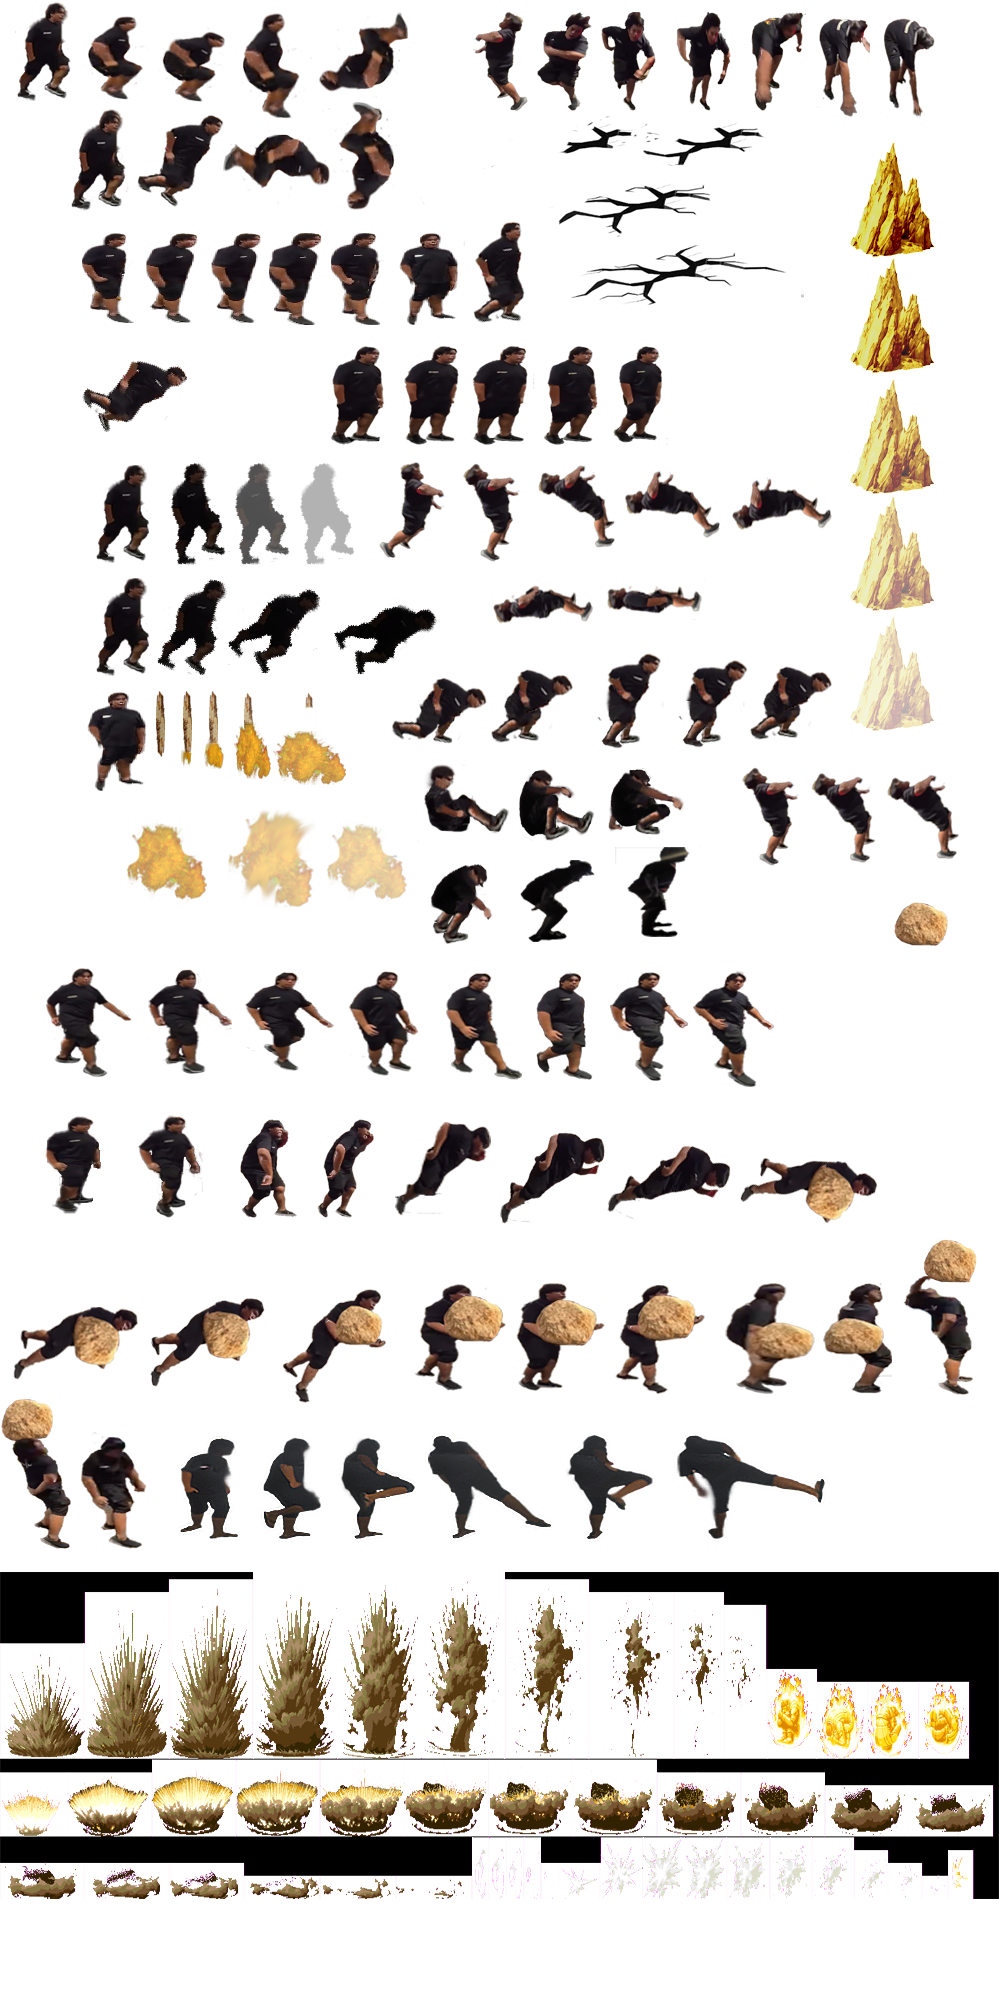
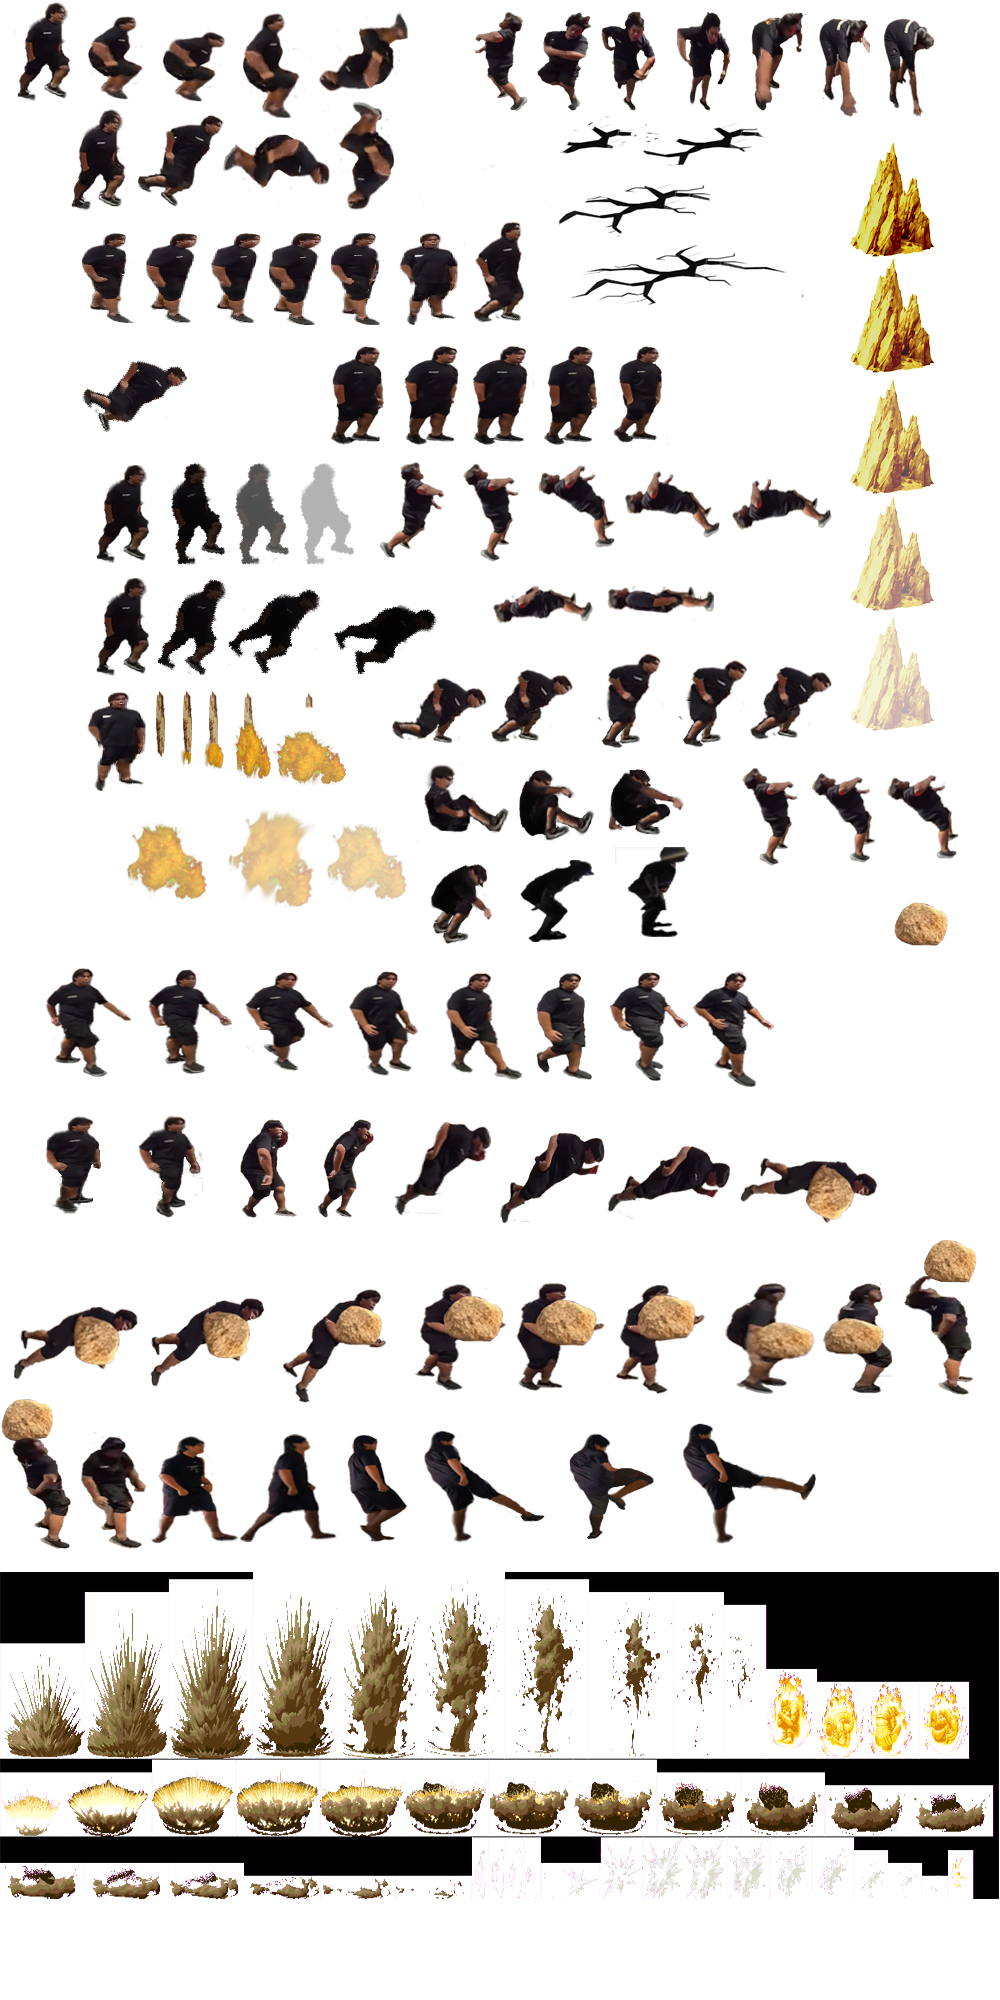
palette swap added december 11 2025

diff --git a/src/utils/palleteSwap.js b/src/utils/palleteSwap.js
@@ -16,6 +16,16 @@ export function extractPalette(image) {
     return [...set]; // palette array
 }
 
+export function buildSingleColorMap(sourceRGB, targetRGB) {
+    // sourceRGB = [r,g,b]
+    // targetRGB = [nr,ng,nb]
+    const key = `${sourceRGB[0]},${sourceRGB[1]},${sourceRGB[2]}`;
+    const map = new Map();
+    map.set(key, targetRGB);
+    return map;
+}
+
+
 export function buildPaletteMap(originalPalette, targetPalette) {
     const map = new Map();
     for (let i = 0; i < originalPalette.length; i++) {
@@ -26,6 +36,17 @@ export function buildPaletteMap(originalPalette, targetPalette) {
     }
     return map;
 }
+
+function isCloseColor(r, g, b, target, tolerance) {
+    return (
+        Math.abs(r - target[0]) <= tolerance &&
+        Math.abs(g - target[1]) <= tolerance &&
+        Math.abs(b - target[2]) <= tolerance
+    );
+}
+
+
+
 
 export function paletteSwap(image, colorMap, tolerance = 3) {
     const canvas = document.createElement("canvas");
@@ -41,18 +62,157 @@ export function paletteSwap(image, colorMap, tolerance = 3) {
         const a = pixels[i + 3];
         if (a === 0) continue;
 
-        const key = `${pixels[i]},${pixels[i+1]},${pixels[i+2]}`;
+        for (const [key, newColor] of colorMap.entries()) {
+            const [tr, tg, tb] = key.split(",").map(Number);
 
-        if (colorMap.has(key)) {
-            const [nr, ng, nb] = colorMap.get(key);
-            pixels[i]     = nr;
-            pixels[i + 1] = ng;
-            pixels[i + 2] = nb;
+            if (isCloseColor(pixels[i], pixels[i+1], pixels[i+2], [tr, tg, tb], tolerance)) {
+                pixels[i]     = newColor[0];
+                pixels[i + 1] = newColor[1];
+                pixels[i + 2] = newColor[2];
+            }
         }
     }
 
     ctx.putImageData(imgData, 0, 0);
     return canvas;
 }
+
+function isNearWhite(r, g, b, threshold = 200) {
+    return r >= threshold && g >= threshold && b >= threshold;
+}
+
+export function paletteSwapReplaceWhite(image, newColor) {
+    const canvas = document.createElement("canvas");
+    const ctx = canvas.getContext("2d");
+    canvas.width = image.width;
+    canvas.height = image.height;
+    ctx.drawImage(image, 0, 0);
+
+    const imgData = ctx.getImageData(0, 0, canvas.width, canvas.height);
+    const pixels = imgData.data;
+
+    for (let i = 0; i < pixels.length; i += 4) {
+        const r = pixels[i];
+        const g = pixels[i + 1];
+        const b = pixels[i + 2];
+        const a = pixels[i + 3];
+
+        if (a === 0) continue;
+
+        if (isNearWhite(r, g, b, 210)) {
+            pixels[i]     = newColor[0];
+            pixels[i + 1] = newColor[1];
+            pixels[i + 2] = newColor[2];
+        }
+    }
+
+    ctx.putImageData(imgData, 0, 0);
+    return canvas;
+}
+
+export function invertSprite(image) {
+    const canvas = document.createElement("canvas");
+    const ctx = canvas.getContext("2d");
+    canvas.width = image.width;
+    canvas.height = image.height;
+
+    ctx.drawImage(image, 0, 0);
+
+    const imgData = ctx.getImageData(0, 0, canvas.width, canvas.height);
+    const pixels = imgData.data;
+
+    for (let i = 0; i < pixels.length; i += 4) {
+        const a = pixels[i + 3];
+        if (a === 0) continue;
+
+        // invert colors
+        pixels[i]     = 255 - pixels[i];     // R
+        pixels[i + 1] = 255 - pixels[i + 1]; // G
+        pixels[i + 2] = 255 - pixels[i + 2]; // B
+    }
+
+    ctx.putImageData(imgData, 0, 0);
+    return canvas;
+}
+
+export function hueShiftSprite(image, hueShiftDegrees) {
+    const canvas = document.createElement("canvas");
+    const ctx = canvas.getContext("2d");
+    canvas.width = image.width;
+    canvas.height = image.height;
+
+    ctx.drawImage(image, 0, 0);
+
+    const imgData = ctx.getImageData(0, 0, canvas.width, canvas.height);
+    const pixels = imgData.data;
+
+    for (let i = 0; i < pixels.length; i += 4) {
+        const a = pixels[i + 3];
+        if (a === 0) continue;
+
+        let r = pixels[i] / 255;
+        let g = pixels[i + 1] / 255;
+        let b = pixels[i + 2] / 255;
+
+        // convert to HSL
+        const max = Math.max(r, g, b);
+        const min = Math.min(r, g, b);
+        const l = (max + min) / 2;
+
+        let h, s;
+
+        if (max === min) {
+            h = 0;
+            s = 0;
+        } else {
+            const d = max - min;
+            s = l > 0.5 ? d / (2 - max - min) : d / (max + min);
+
+            switch (max) {
+                case r: h = (g - b) / d + (g < b ? 6 : 0); break;
+                case g: h = (b - r) / d + 2; break;
+                case b: h = (r - g) / d + 4; break;
+            }
+
+            h /= 6;
+        }
+
+        // shift hue
+        h = (h + hueShiftDegrees / 360) % 1;
+
+        // convert back to RGB
+        function hue2rgb(p, q, t) {
+            if (t < 0) t += 1;
+            if (t > 1) t -= 1;
+            if (t < 1/6) return p + (q - p) * 6 * t;
+            if (t < 1/2) return q;
+            if (t < 2/3) return p + (q - p) * (2/3 - t) * 6;
+            return p;
+        }
+
+        let r2, g2, b2;
+
+        if (s === 0) {
+            r2 = g2 = b2 = l; // gray
+        } else {
+            const q = l < 0.5 ? l * (1 + s) : l + s - l * s;
+            const p = 2 * l - q;
+            r2 = hue2rgb(p, q, h + 1/3);
+            g2 = hue2rgb(p, q, h);
+            b2 = hue2rgb(p, q, h - 1/3);
+        }
+
+        pixels[i]     = Math.round(r2 * 255);
+        pixels[i + 1] = Math.round(g2 * 255);
+        pixels[i + 2] = Math.round(b2 * 255);
+    }
+
+    ctx.putImageData(imgData, 0, 0);
+    return canvas;
+}
+
+
+
+
 
 

diff --git a/src/entities/fighters/Golem.js b/src/entities/fighters/Golem.js
@@ -120,15 +120,15 @@ export class Golem extends Fighter {
             ['heavy-punch-1', [[[222, 133, 109, 55], [-8,77]], PushBox.BEND, [[3, -76, 30, 18],[3, -69, 84, 30], [-2, -52, 44, 58]], HitBox.HEAVY_PUNCH]],
 
              //lIGHT kick
-            ['light-kick-1', [[[264, 1438, 59, 101], [29,99]], PushBox.IDLE,  [[3, -76, 30, 18],[-3, -59, 64, 20], [-32, -52, 44, 58]]]],
-            ['light-kick-2', [[[431, 1435, 124, 104], [62,102]], PushBox.BEND, [[3, -76, 30, 18],[-3, -59, 64, 20], [-32, -52, 44, 58]], HitBox.LIGHT_KICK_LOW]],
+            ['light-kick-1', [[[239, 1434, 97, 108], [48,106]], PushBox.IDLE,  [[3, -76, 30, 18],[-3, -59, 64, 20], [-32, -52, 44, 58]]]],
+            ['light-kick-2', [[[423, 1429, 122, 118], [61,116]], PushBox.BEND, [[3, -76, 30, 18],[-3, -59, 64, 20], [-32, -52, 44, 58]], HitBox.LIGHT_KICK_LOW]],
 
              //Heavy kick
-            ['heavy-kick-1', [[[180, 1438, 59, 101], [29,99]], PushBox.BEND, [[3, -76, 30, 18],[-3, -59, 30, 20], [-32, -52, 44, 58]]]],
-            ['heavy-kick-2', [[[264, 1438, 59, 101], [29,99]], PushBox.BEND, [[3, -76, 30, 18],[-3, -59, 30, 20], [-32, -52, 44, 58]]]],
-            ['heavy-kick-3', [[[343, 1438, 75, 101], [37,99]], PushBox.BEND, [[3, -76, 30, 18],[8, -58, 75, 20], [-2, -52, 44, 58]]]],
+            ['heavy-kick-1', [[[151, 1436, 87, 108], [44,106]], PushBox.BEND, [[3, -76, 30, 18],[-3, -59, 30, 20], [-32, -52, 44, 58]]]],
+            ['heavy-kick-2', [[[241, 1434, 98, 108], [49,106]], PushBox.BEND, [[3, -76, 30, 18],[-3, -59, 30, 20], [-32, -52, 44, 58]]]],
+            ['heavy-kick-3', [[[347, 1434, 61, 108], [30,106]], PushBox.BEND, [[3, -76, 30, 18],[8, -58, 75, 20], [-2, -52, 44, 58]]]],
             ['heavy-kick-4', [[[572, 1435, 86, 104], [43,102]], PushBox.BEND, [[3, -76, 30, 18],[-3, -59, 30, 20], [-32, -52, 44, 58]]]],
-            ['heavy-kick-5', [[[683, 1435, 150, 104], [75,102]], PushBox.BEND, [[3, -76, 30, 18],[-3, -59, 30, 20], [-32, -52, 44, 58]],HitBox.HEAVY_KICK]],
+            ['heavy-kick-5', [[[682, 1423, 135, 122], [67,120]], PushBox.BEND, [[3, -76, 30, 18],[-3, -59, 30, 20], [-32, -52, 44, 58]],HitBox.HEAVY_KICK]],
 
             //Hit Face
             ['hurt-face-3', [[[886, 774,73,84],[26,90]], PushBox.IDLE, HurtBox.IDLE]],
@@ -174,8 +174,8 @@ export class Golem extends Fighter {
                 ['death-4', [[[624, 469, 97, 70], [48,68]],PushBox.IDLE, HurtBox.IDLE]],
                 ['death-5', [[[731, 476, 102, 55], [51,53]],PushBox.IDLE, HurtBox.IDLE]],
                 ['death-6', [[[492, 585, 102, 39], [51,37]],PushBox.IDLE, HurtBox.IDLE]],
-                ['death-7', [[[608, 585, 92, 28], [46,26]],PushBox.IDLE, HurtBox.IDLE]],
-                ['death-8', [[[608, 585, 92, 28], [46,26]],PushBox.IDLE, HurtBox.NULL]],
+                ['death-7', [[[606, 585, 108, 29], [54,27]],PushBox.IDLE, HurtBox.IDLE]],
+                ['death-8', [[[606, 585, 108, 29], [54,27]],PushBox.IDLE, HurtBox.NULL]],
 
                 //GetUp State
                  ['getUp-1', [[[392, 678, 94, 64], [47,62]], PushBox.IDLE, HurtBox.NULL]],

diff --git a/src/entities/fighters/Fighter.js b/src/entities/fighters/Fighter.js
@@ -21,7 +21,7 @@ import { FRAME_TIME } from '../../constants/game.js';
 import { hasSpecialMoveBeenExecuted } from '../../controlHistory.js';
 import { EntityList } from '../../EntityList.js';
 import { SuperHitSplash } from './shared/SuperHitSplash.js';
-import { buildPaletteMap, extractPalette, paletteSwap } from '../../utils/palleteSwap.js';
+import { buildPaletteMap, buildSingleColorMap, extractPalette, hueShiftSprite, invertSprite, paletteSwap, paletteSwapReplaceWhite } from '../../utils/palleteSwap.js';
 
 
 
@@ -1483,12 +1483,28 @@ applyPalette(color) {
         purple:  [[200,80,255], [140,50,200], [80,20,120]]
     };
 
+
     if (!this.basePalette) {
         this.basePalette = extractPalette(this.image);
     }
 
-    const colorMap = buildPaletteMap(this.basePalette, PALettes[color]);
-    this.colorSwappedImage = paletteSwap(this.image, colorMap);
+   // const colorMap = buildPaletteMap(this.basePalette, PALettes[color]);
+  //  this.colorSwappedImage = paletteSwap(this.image, colorMap);
+  const newColor = [30, 60, 255];
+//this.colorSwappedImage = paletteSwapReplaceWhite(this.image, newColor);
+
+
+
+//const colorMap = buildSingleColorMap(sourceColor, newColor);
+
+//const newImage = paletteSwap(this.image, colorMap);
+//this.colorSwappedImage = newImage;
+
+if(color === "invert")this.colorSwappedImage = invertSprite(this.image);
+else this.colorSwappedImage = hueShiftSprite(this.image, 340);
+
+
+
 }
 
 

diff --git a/src/scenes/Battlescene.js b/src/scenes/Battlescene.js
@@ -176,7 +176,7 @@ export class BattleScene {
         fighterEntities[1].opponent = fighterEntities[0];
 
         if (gameState.fighters[0].id === gameState.fighters[1].id ) {
-        fighterEntities[1].applyPalette("blue"); // this will generate colorSwappedImage
+        fighterEntities[1].applyPalette("normal"); 
     }
 
         return fighterEntities;

diff --git a/src/StreetFighterGame.js b/src/StreetFighterGame.js
@@ -21,7 +21,7 @@ const selectedCharacters = [
         imageBig: 'malupitonBig' 
     },
     { 
-        name: "Malupiton", 
+        name: "Golem", 
         color: "gray", 
         namePos: 5,
         sayings: 'Sabi ko naman sayo burger ka saken',
